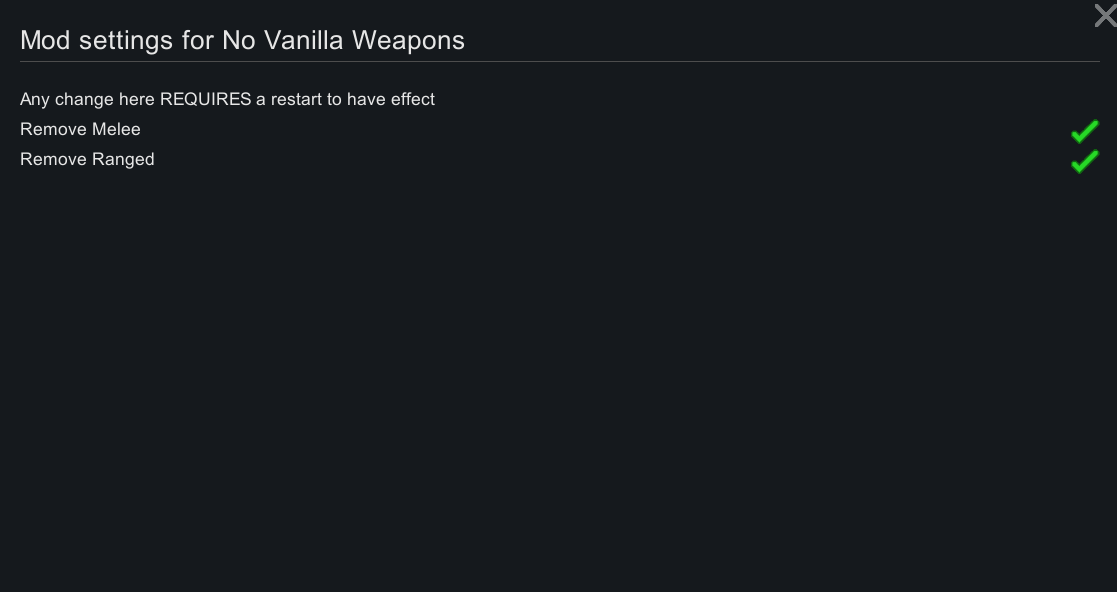
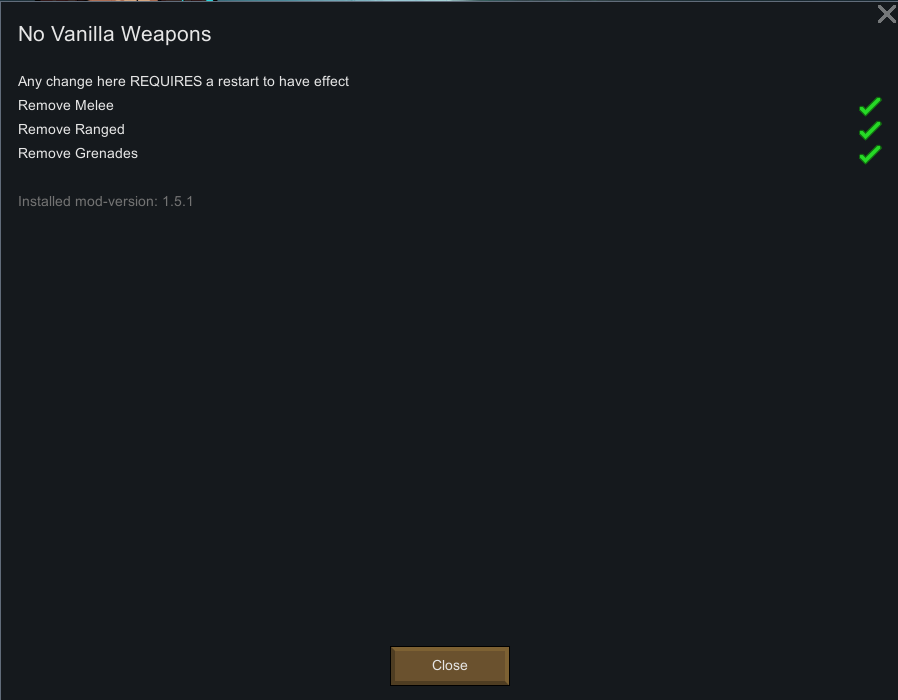
Mod updated for 1.6 and passed autotests

Changed region(s): [[0.0, 0.0, 1.0, 0.3041], [0.4365, 0.9122, 0.5924, 1.0], [0.9354, 0.1216, 0.9978, 0.3041]]

diff --git a/Source/NoVanillaWeapons/NoVanillaWeaponsMod.cs b/Source/NoVanillaWeapons/NoVanillaWeaponsMod.cs
@@ -10,7 +10,7 @@ internal class NoVanillaWeaponsMod : Mod
     /// <summary>
     ///     The instance of the settings to be read by the mod
     /// </summary>
-    public static NoVanillaWeaponsMod instance;
+    public static NoVanillaWeaponsMod Instance;
 
     private static string currentVersion;
 
@@ -25,7 +25,7 @@ internal class NoVanillaWeaponsMod : Mod
     /// <param name="content"></param>
     public NoVanillaWeaponsMod(ModContentPack content) : base(content)
     {
-        instance = this;
+        Instance = this;
         currentVersion =
             VersionFromManifest.GetVersionFromModMetaData(content.ModMetaData);
     }
@@ -37,14 +37,10 @@ internal class NoVanillaWeaponsMod : Mod
     {
         get
         {
-            if (settings == null)
-            {
-                settings = GetSettings<NoVanillaWeaponsSettings>();
-            }
+            settings ??= GetSettings<NoVanillaWeaponsSettings>();
 
             return settings;
         }
-        set => settings = value;
     }
 
     /// <summary>
@@ -63,29 +59,29 @@ internal class NoVanillaWeaponsMod : Mod
     /// <param name="rect"></param>
     public override void DoSettingsWindowContents(Rect rect)
     {
-        var listing_Standard = new Listing_Standard();
-        listing_Standard.Begin(rect);
-        listing_Standard.Gap();
-        listing_Standard.Label("NVW.Restart".Translate());
-        listing_Standard.CheckboxLabeled("NVW.Melee".Translate(), ref Settings.Melee, "NVW.Melee.Tip".Translate());
-        listing_Standard.CheckboxLabeled("NVW.Ranged".Translate(), ref Settings.Ranged,
+        var listingStandard = new Listing_Standard();
+        listingStandard.Begin(rect);
+        listingStandard.Gap();
+        listingStandard.Label("NVW.Restart".Translate());
+        listingStandard.CheckboxLabeled("NVW.Melee".Translate(), ref Settings.Melee, "NVW.Melee.Tip".Translate());
+        listingStandard.CheckboxLabeled("NVW.Ranged".Translate(), ref Settings.Ranged,
             "NVW.Ranged.Tip".Translate());
-        listing_Standard.CheckboxLabeled("NVW.Grenades".Translate(), ref Settings.Grenades,
+        listingStandard.CheckboxLabeled("NVW.Grenades".Translate(), ref Settings.Grenades,
             "NVW.Grenades.Tip".Translate());
-        listing_Standard.Gap();
+        listingStandard.Gap();
         if (!Settings.Ranged && !Settings.Melee && !Settings.Grenades)
         {
-            listing_Standard.Label("NVW.Why".Translate());
+            listingStandard.Label("NVW.Why".Translate());
         }
 
         if (currentVersion != null)
         {
-            listing_Standard.Gap();
+            listingStandard.Gap();
             GUI.contentColor = Color.gray;
-            listing_Standard.Label("NVW.ModVersion".Translate(currentVersion));
+            listingStandard.Label("NVW.ModVersion".Translate(currentVersion));
             GUI.contentColor = Color.white;
         }
 
-        listing_Standard.End();
+        listingStandard.End();
     }
 }

diff --git a/Source/NoVanillaWeapons/NoVanillaWeapons.cs b/Source/NoVanillaWeapons/NoVanillaWeapons.cs
@@ -12,9 +12,9 @@ internal static class NoVanillaWeapons
     {
         var vanillaWeapons = DefDatabase<ThingDef>.AllDefsListForReading
             .Where(weapon => weapon is { IsWeapon: true, modContentPack.IsOfficialMod: true } &&
-                             (NoVanillaWeaponsMod.instance.Settings.Melee || weapon.IsMeleeWeapon != true) &&
-                             (NoVanillaWeaponsMod.instance.Settings.Ranged || weapon.IsRangedWeapon != true) &&
-                             (NoVanillaWeaponsMod.instance.Settings.Grenades ||
+                             (NoVanillaWeaponsMod.Instance.Settings.Melee || !weapon.IsMeleeWeapon) &&
+                             (NoVanillaWeaponsMod.Instance.Settings.Ranged || !weapon.IsRangedWeapon) &&
+                             (NoVanillaWeaponsMod.Instance.Settings.Grenades ||
                               weapon.weaponTags?.Any(tag => tag.ToLower().Contains("grenade")) != true) &&
                              !weapon.IsStuff && weapon.weaponTags?.Contains("TurretGun") == false &&
                              !weapon.destroyOnDrop).ToList();

diff --git a/README.md b/README.md
@@ -4,7 +4,7 @@
 
 If you have any suggestion on more properties to sort on, leave a comment here or on the Discord-server!
 
-Tries to remove all vanilla weapons from the game. There are mod options for only removing ranged/melee if needed.
+Tries to remove all vanilla weapons from the game. There are mod options for only removing ranged/melee/grenades if needed.
 
 To not cause to much hard errors it iterates through all weapons and sets properties to values that make them not spawn in the game and their recipes not usable for any faction. It does not remove weapons from saves or scenario-starts but no new weapons should spawn.  
 
